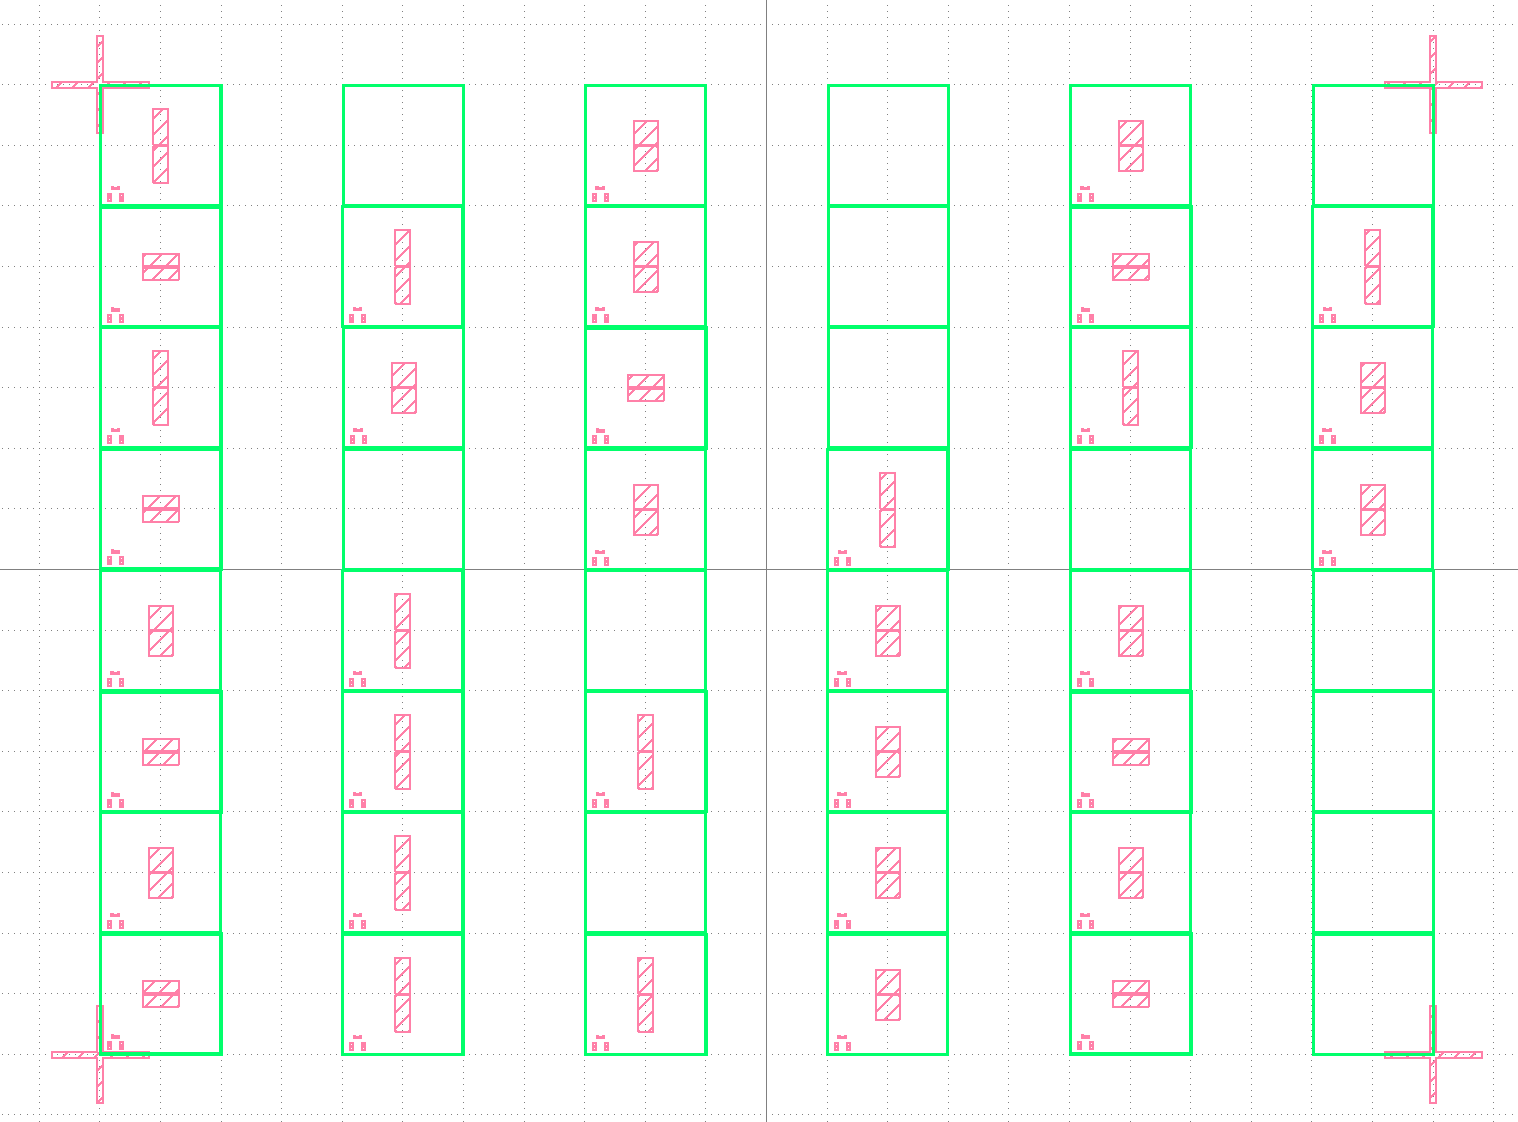
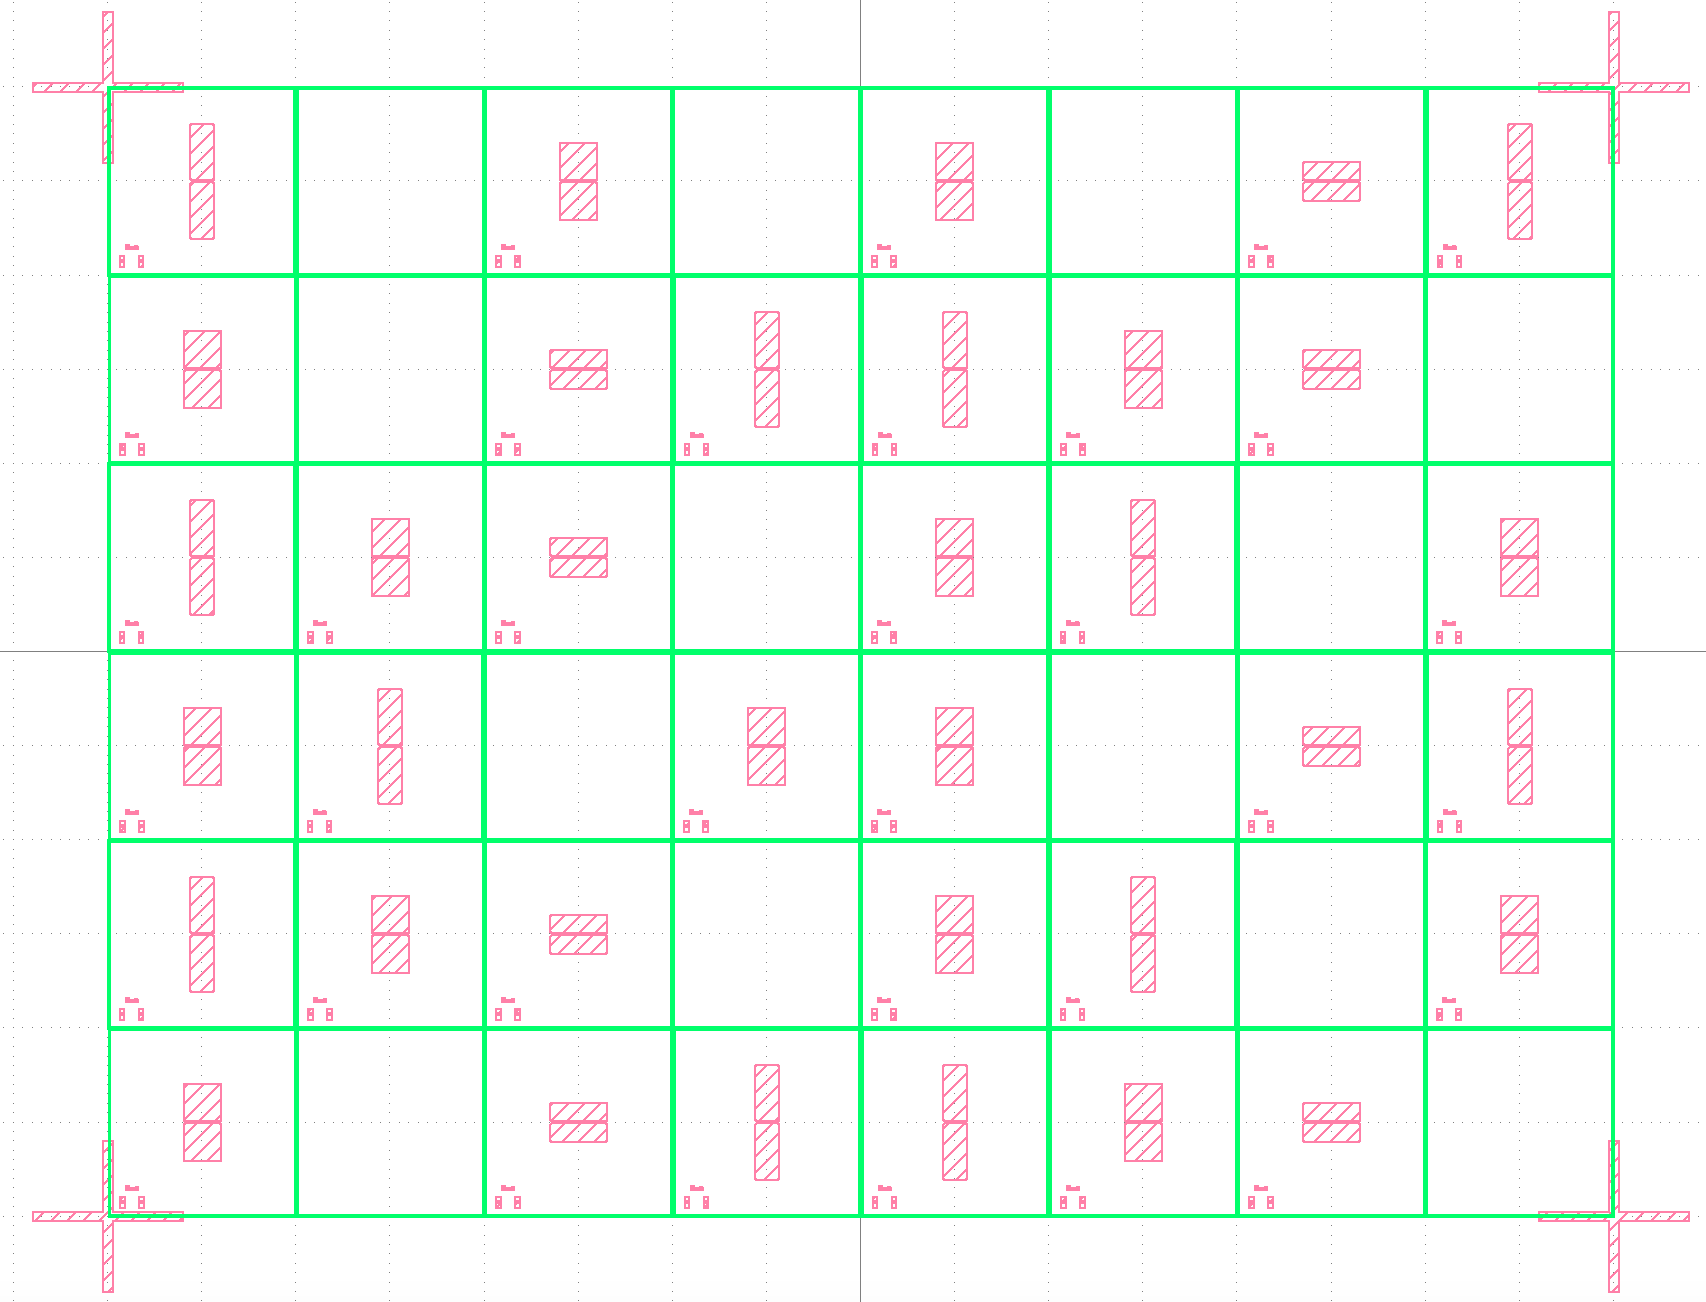
Fixed shape of array type grid sweep

Changed region(s): [[0.031, 0.0, 0.9908, 0.9982]]

diff --git a/README.md b/README.md
@@ -184,7 +184,7 @@ Grid:
       [0    , 1     , 2     , null, 1    , 0     , null  , 1   ],
       [1    , null  , 2     , 0   , 0    , 1     , 2     , null], 
     ]
-    gap_x : 1
+    gap_x : 0
     gap_y : 0
 ```
 
